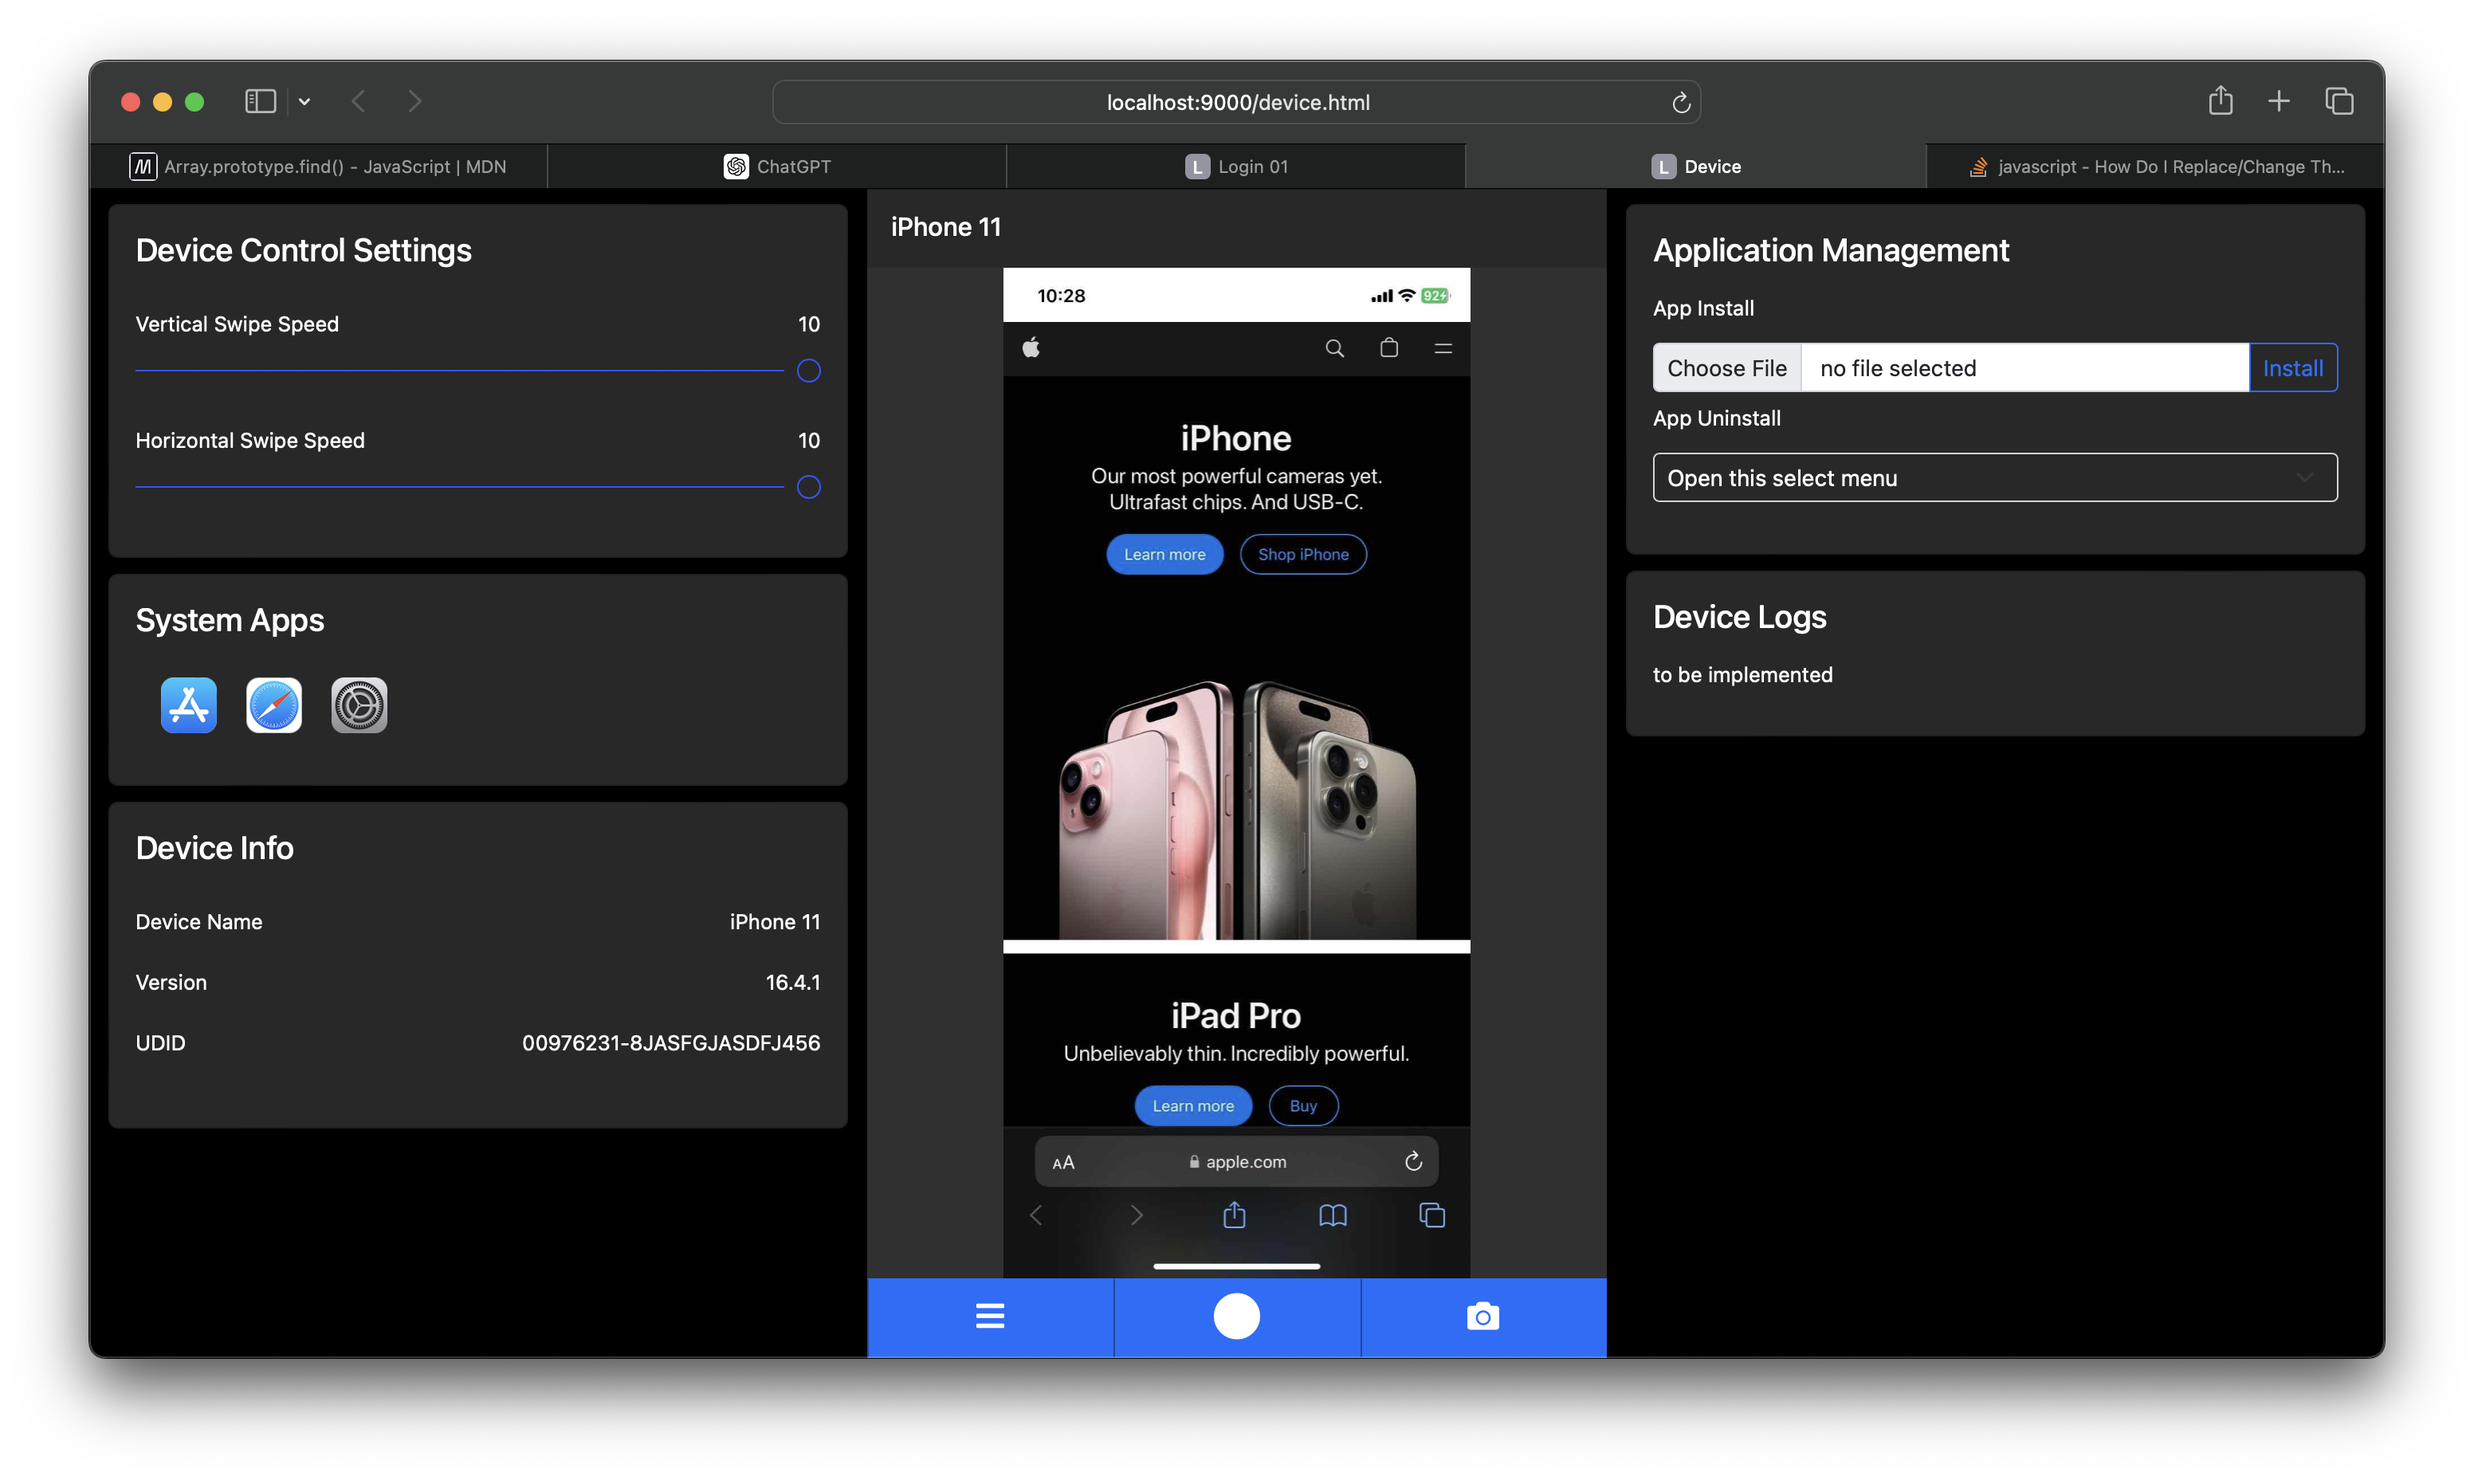
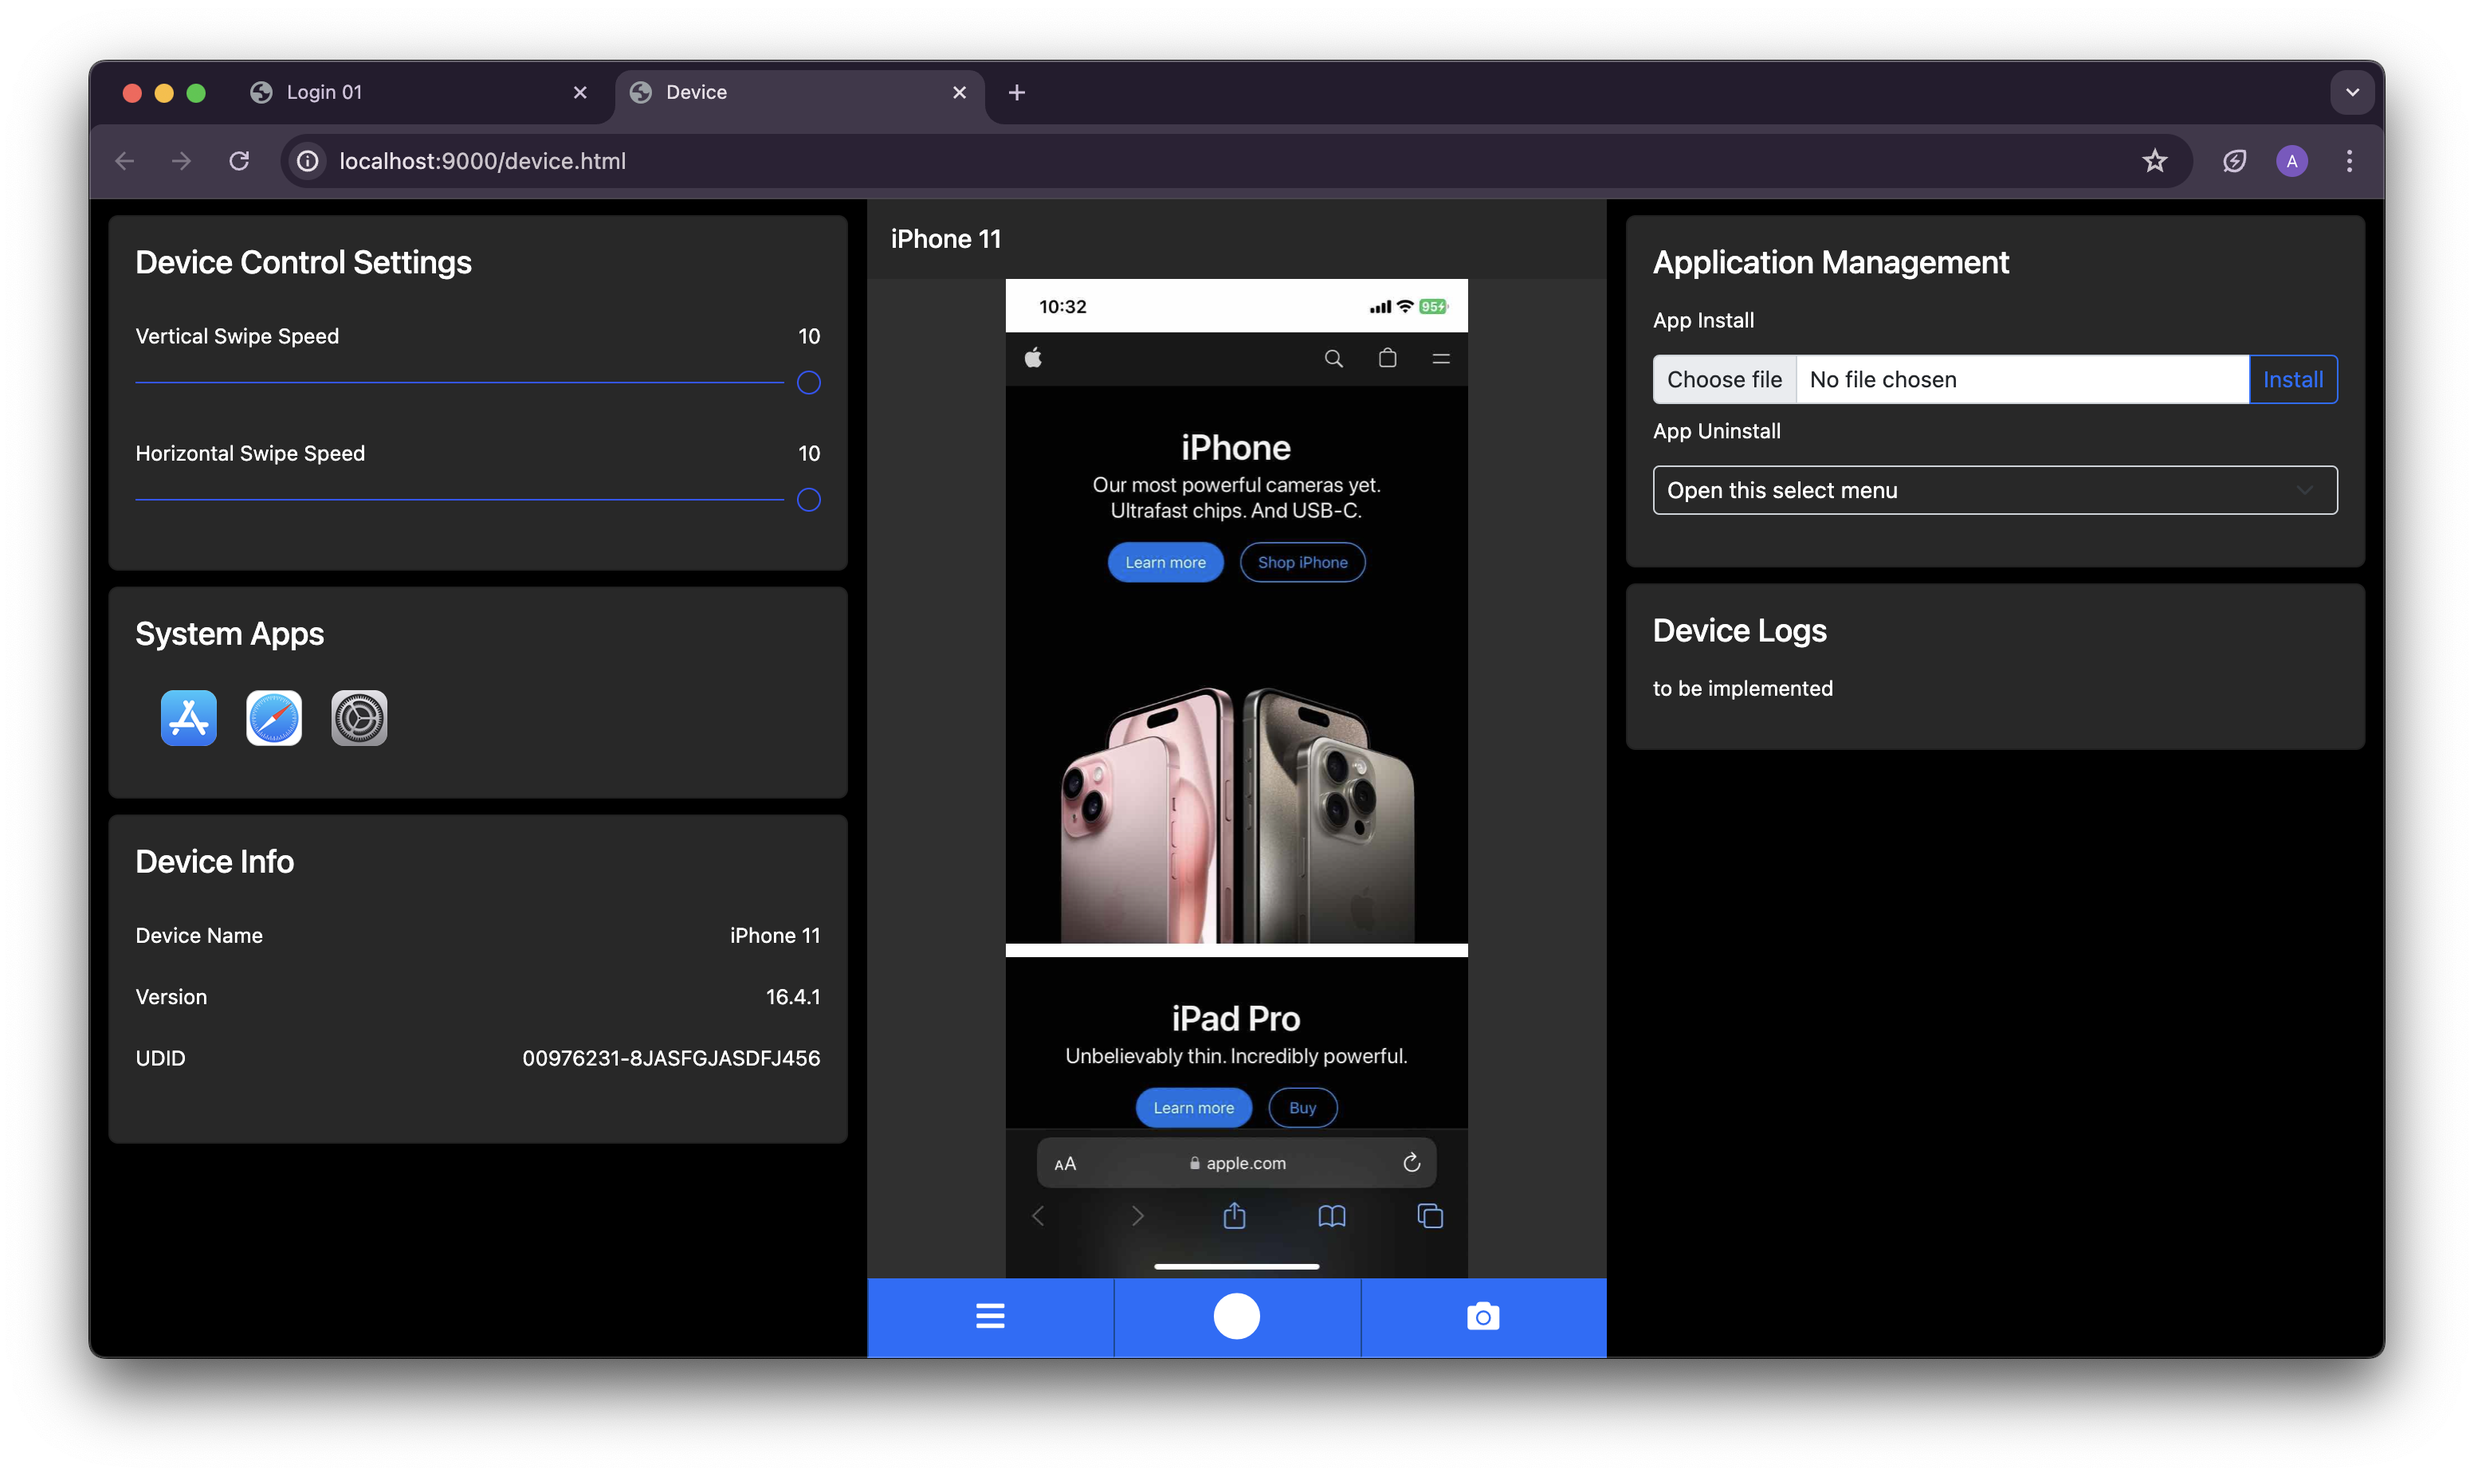
updated README

diff --git a/README.md b/README.md
@@ -41,3 +41,5 @@ npm run start
 ```
 
 Now connect a iphone and open http://localhost:9000 in your browser.
+
+![ios-device-farm](https://github.com/AutoCodeStack/ios-device-farm/blob/main/images/idf-screenshot.png)
